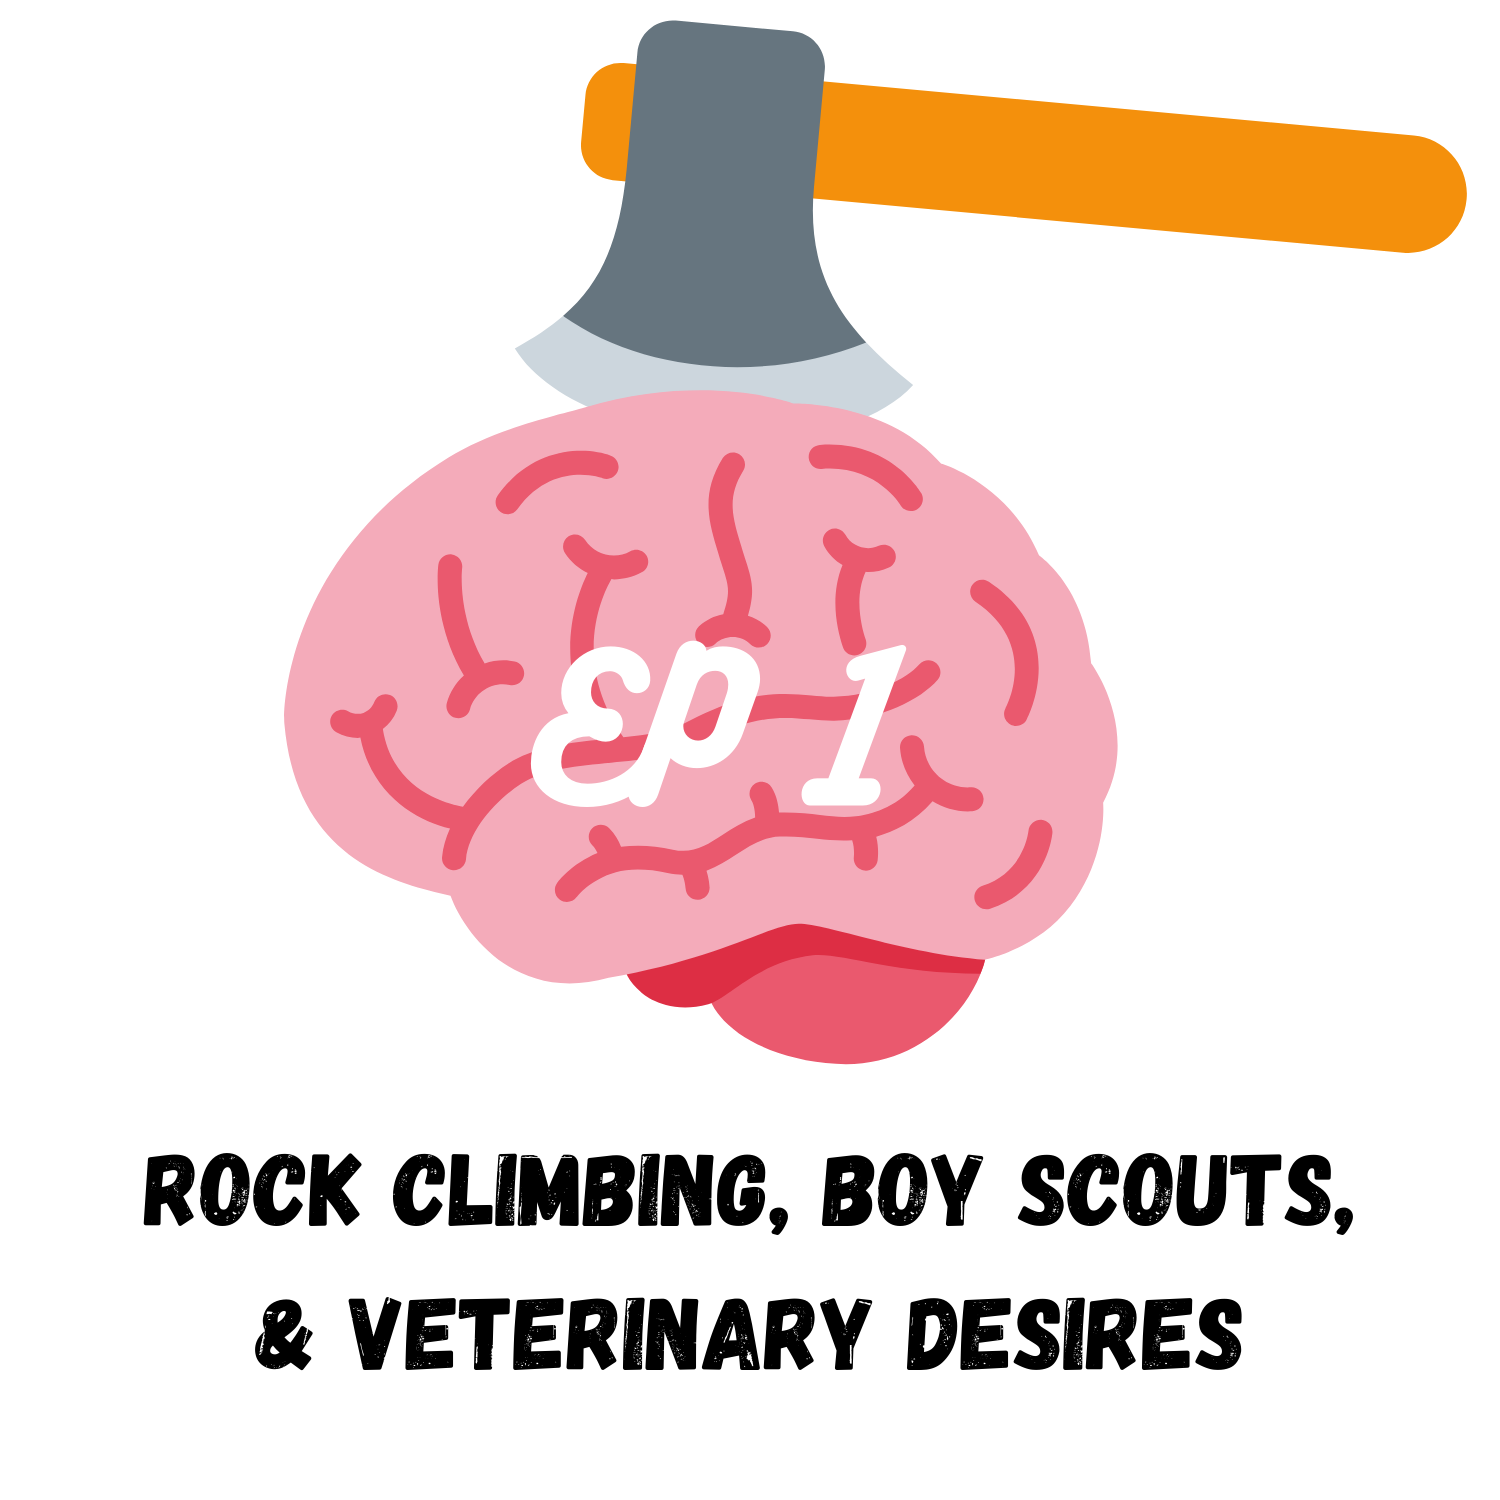
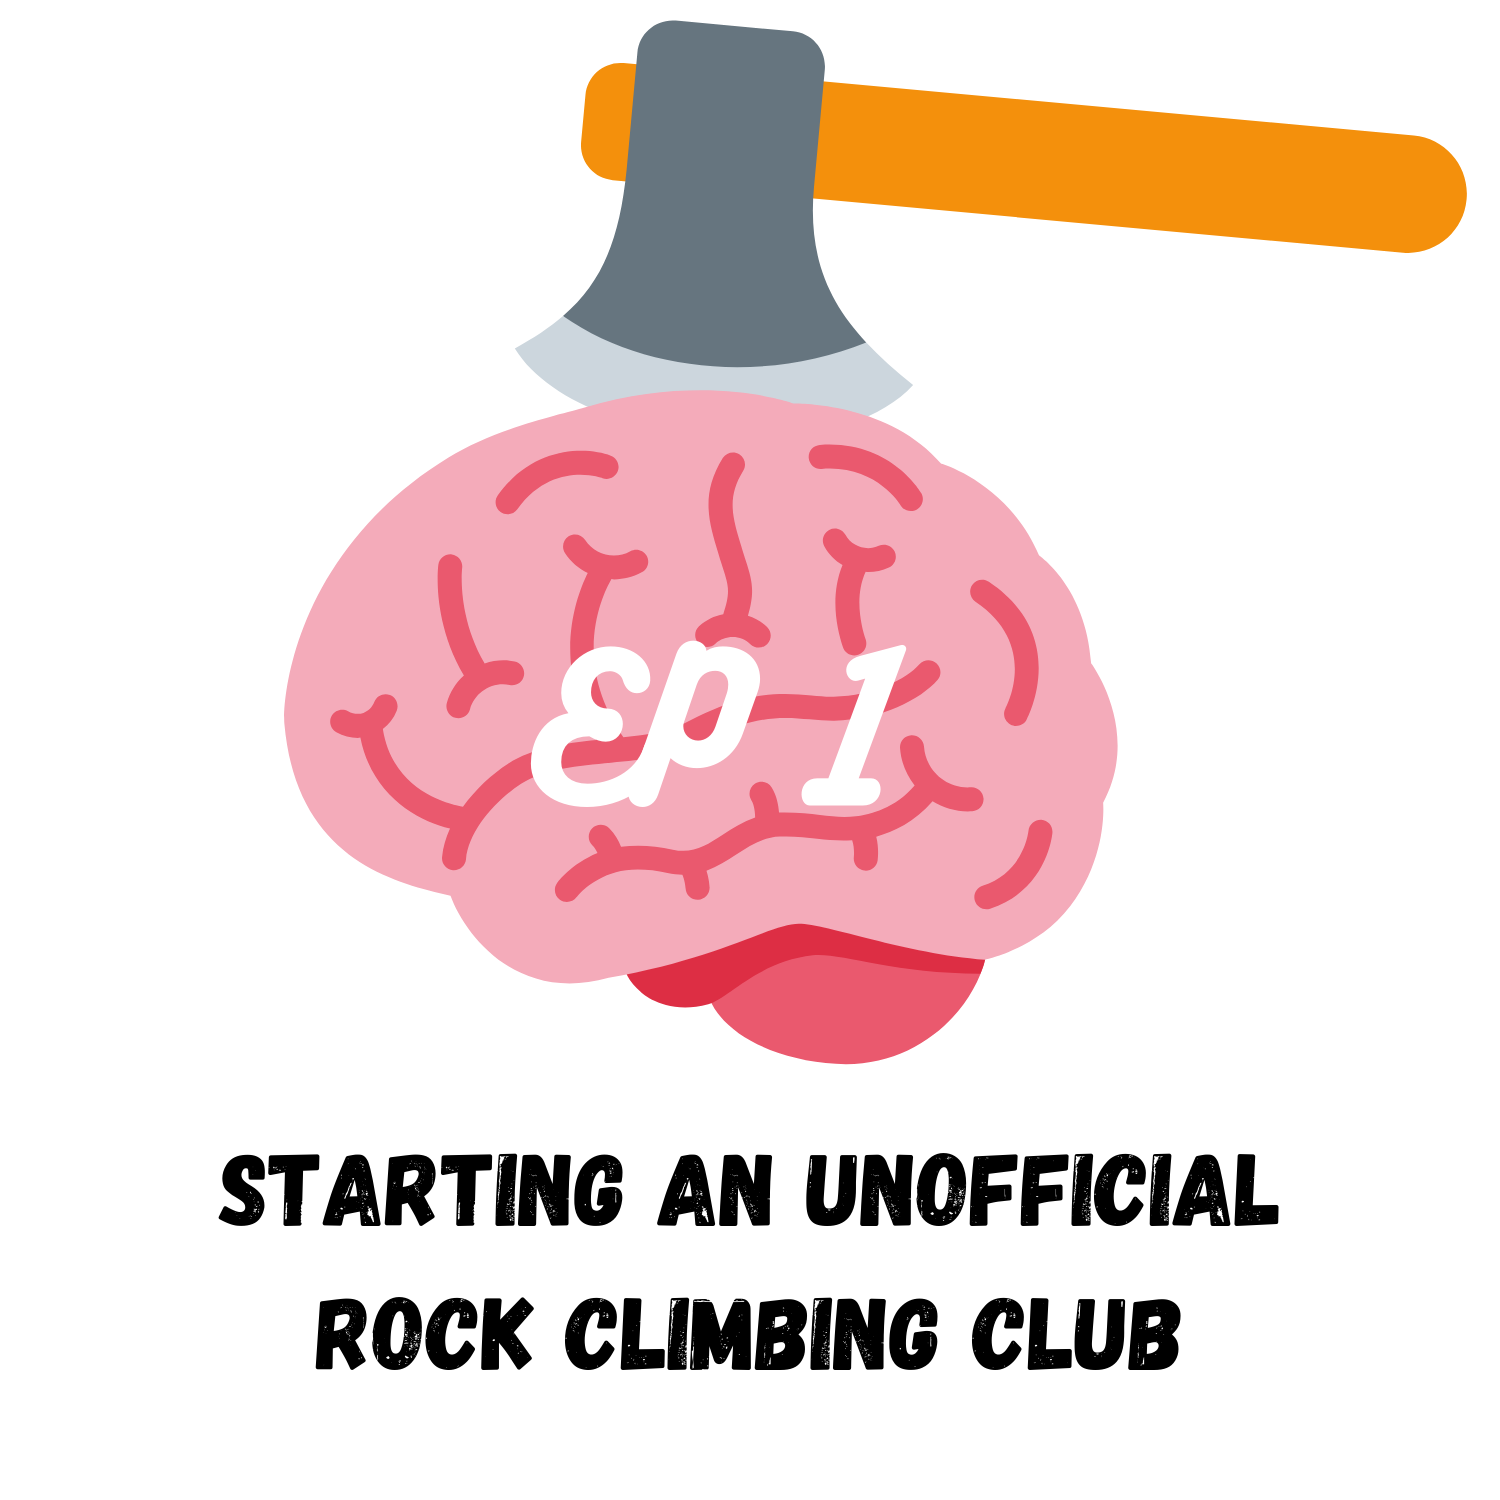
Revise episode titles, descriptions, and cover art - It's Over Pod

Changed region(s): [[0.092, 0.7667, 0.92, 0.828], [0.1533, 0.8587, 0.828, 0.92]]

diff --git a/itsoverpod/episode4.html b/itsoverpod/episode4.html
@@ -19,13 +19,11 @@
 			<!-- Main -->
 			<div id="main">
 				<div class="inner">
-					<h1>Episode 4 - Social Activism & Thomas Jefferson - Amelie Lee</h1>
+					<h1>Episode 4 - 8000 Instagram Followers @AsianAmericansForBLM - Amelie Lee</h1>
 
 					<p>
 						<strong>July 22, 2020</strong><br><br>
-						Growing up in a conservative, first-generation Asian American household can make it difficult and uncomfortable to talk about race relations in America. Amelie encourages us to challenge institutionalized and internalized racism, recognize that minority/ethnic groups face different obstacles, and keep an open mind by providing resources through her fast-growing Instagram account.<br><br>
-
-						Follow <a target="_blank" href="https://www.instagram.com/asianamericansforblm/">@asianamericansforblm</a> on Instagram and check out Amelie's podcast: <a target="_blank" href="https://open.spotify.com/show/636Oyhwk4EOrGhMRn7uIUU?si=-HYF4FkbQgi022xR9Apviw">Here's What I Think About That</a>!<br><br>
+						On growing an Instagram page to 8000 followers in one month.<br><br>
 						
 						Tune in on:
 						<script src="podcast-distribution-links.js"></script>

diff --git a/itsoverpod/episode1.html b/itsoverpod/episode1.html
@@ -19,11 +19,11 @@
 			<!-- Main -->
 			<div id="main">
 				<div class="inner">
-					<h1>Episode 1 - Rock Climbing, Boy Scouts, & Veterinary Desires - Brandon Tsai</h1>
+					<h1>Episode 1 - Starting an Unofficial Rock Climbing Club - Brandon Tsai</h1>
 					
 					<p>
 						<strong>July 1, 2020</strong><br><br>
-						Our first episode ever! We brought on our good friend Brandon Tsai to talk about his interest in rock climbing and how he founded a rock climbing club in high school. We also cover Brandon's experience as a Boy Scout including his path to Eagle and some camping highlights. And finally, we discuss what it's like to be on the pre-vet track as an undergraduate student majoring in biology at UC Riverside.<br><br>
+						How to start a rock climbing club and other Boy Scout adventures.<br><br>
 						
 						Tune in on:
 						<script src="podcast-distribution-links.js"></script>

diff --git a/itsoverpod/episode3.html b/itsoverpod/episode3.html
@@ -19,11 +19,11 @@
 			<!-- Main -->
 			<div id="main">
 				<div class="inner">
-					<h1>Episode 3 - Greek Life & Boarding School - Henry Kim</h1>
+					<h1>Episode 3 - Joining (and Regretting) Greek Life - Henry Kim</h1>
 
 					<p>
 						<strong>July 15, 2020</strong><br><br>
-						Our friend Henry Kim talks about growing up in America as a foreigner, spending time in Texas for elementary and middle school, and moving to Pennsylvania for boarding school. We also discuss Greek life at NYU and UCLA and why so many college students choose to be a part of it.<br><br>
+						From boarding school to Greek life. The pros and cons of artificial friendship.<br><br>
 						
 						Tune in on:
 						<script src="podcast-distribution-links.js"></script>

diff --git a/itsoverpod/episode5.html b/itsoverpod/episode5.html
@@ -19,11 +19,11 @@
 			<!-- Main -->
 			<div id="main">
 				<div class="inner">
-					<h1>Episode 5 - Taylor Swift, Cello, & Root Canals - Sophia Bosque</h1>
+					<h1>Episode 5 - Where I Draw Inspiration for Love Songs - Sophia Bosque</h1>
 					
 					<p>
 						<strong>July 29, 2020</strong><br><br>
-						Our friend Sophia Bosque talks about writing music, being part of an orchestra as a cello player, and going through two quarters of coding at UCLA. We also discuss Taylor Swift.<br><br>
+						How to write a love song and more musical adventures.<br><br>
 
 						Tune in on:
 						<script src="podcast-distribution-links.js"></script>

diff --git a/itsoverpod/episode2.html b/itsoverpod/episode2.html
@@ -23,7 +23,7 @@
 
 					<p>
 						<strong>July 8, 2020</strong><br><br>
-						Our friend Isaac No joins us on a conversation about navigating Christianity and religious faith, the political environment at UCLA, and what it's like to study pure maths.<br><br>
+						How going to college affects religious faith and finding communities away from home.<br><br>
 						
 						Tune in on:
 						<script src="podcast-distribution-links.js"></script>
